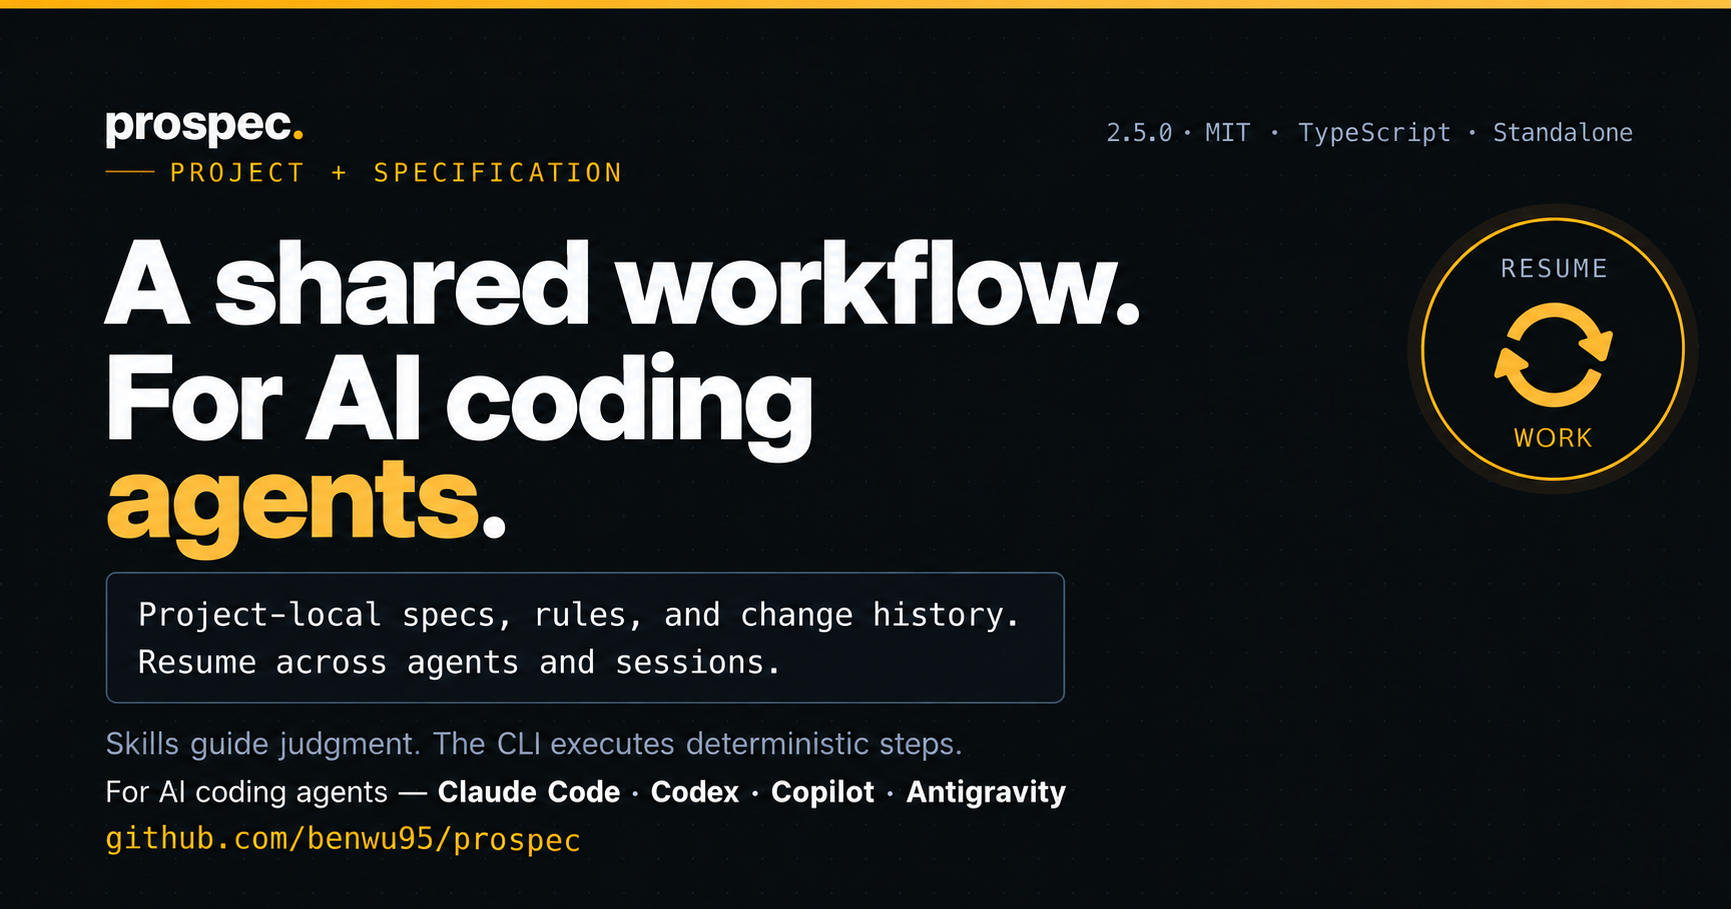
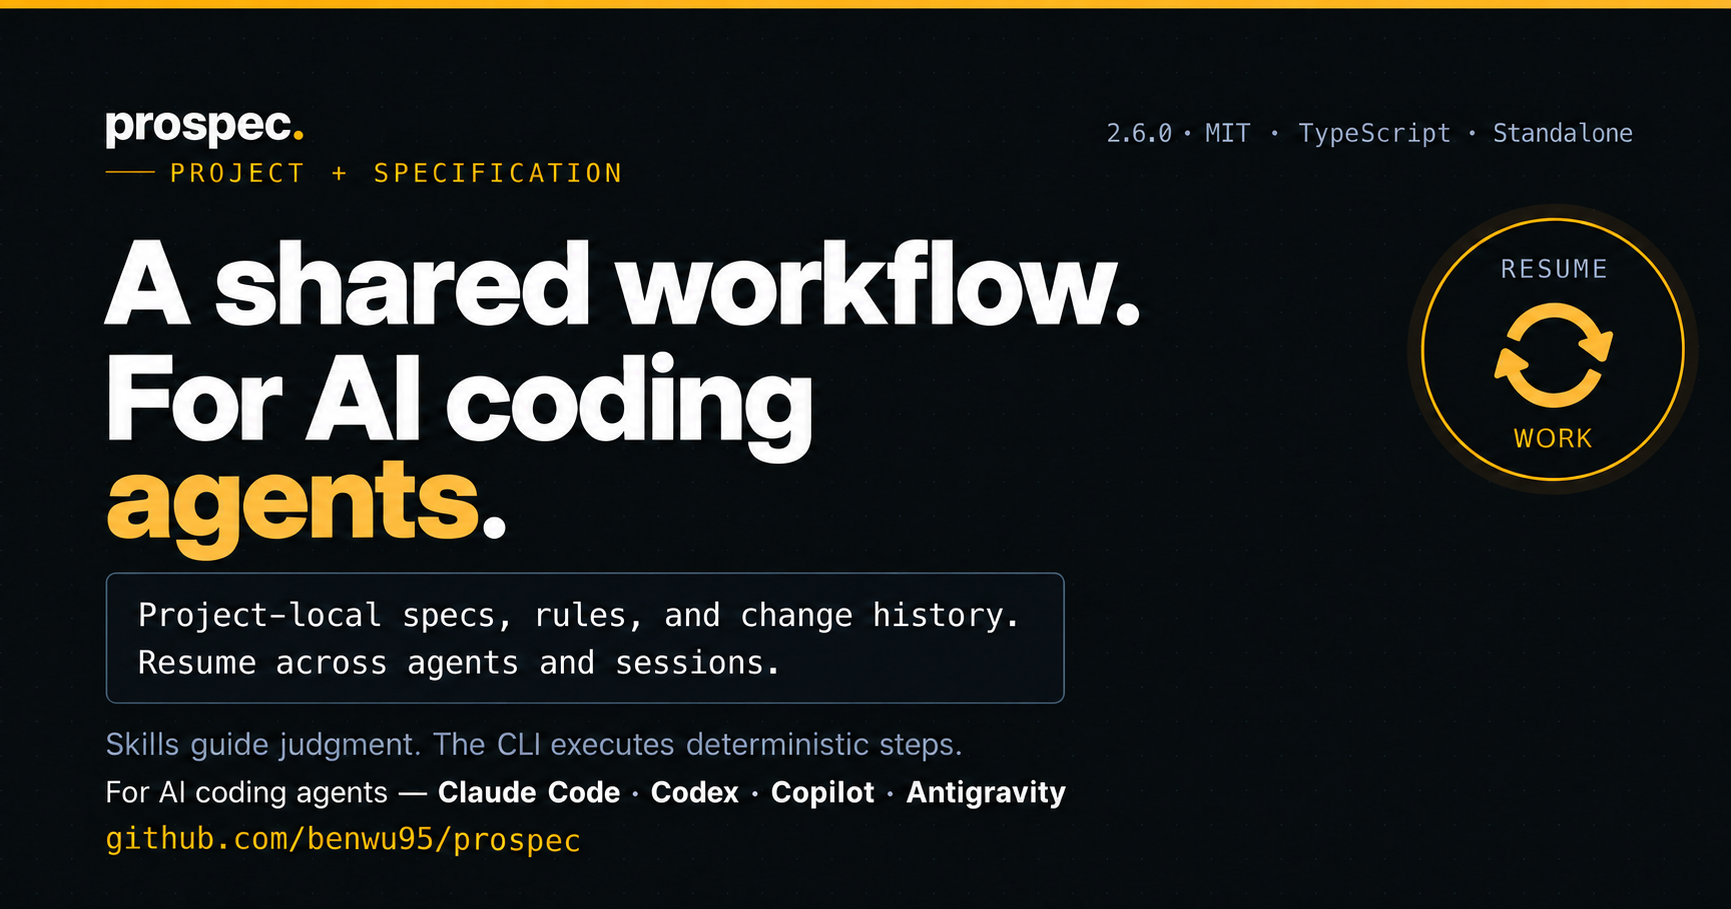
chore: bump version to 2.6.0
- update package, project and website release versions and social preview
- document V2 delegation ticket upgrade compatibility in both languages
- refresh release contract assertions and confirm tests knowledge

diff --git a/docs/index.html b/docs/index.html
@@ -14,12 +14,12 @@
 <meta property="og:image" content="https://benwu95.github.io/prospec/og.png">
 <meta property="og:image:width" content="1731">
 <meta property="og:image:height" content="909">
-<meta property="og:image:alt" content="Prospec 2.5.0 — a shared, resumable workflow for AI coding agents. Project-local specs, rules, and change history. Skills guide judgment; the CLI executes deterministic steps.">
+<meta property="og:image:alt" content="Prospec 2.6.0 — a shared, resumable workflow for AI coding agents. Project-local specs, rules, and change history. Skills guide judgment; the CLI executes deterministic steps.">
 <meta name="twitter:card" content="summary_large_image">
 <meta name="twitter:title" content="Prospec — a shared workflow for AI coding agents">
 <meta name="twitter:description" content="Project-local specs, rules, and change history keep work resumable across agents and sessions. Skills guide judgment; the CLI executes deterministic steps.">
 <meta name="twitter:image" content="https://benwu95.github.io/prospec/og.png">
-<meta name="twitter:image:alt" content="Prospec 2.5.0 — a shared, resumable workflow for AI coding agents. Project-local specs, rules, and change history. Skills guide judgment; the CLI executes deterministic steps.">
+<meta name="twitter:image:alt" content="Prospec 2.6.0 — a shared, resumable workflow for AI coding agents. Project-local specs, rules, and change history. Skills guide judgment; the CLI executes deterministic steps.">
 <script>
   (function(){
     var h = document.documentElement;
@@ -46,8 +46,8 @@
   "applicationCategory":"DeveloperApplication",
   "operatingSystem":"macOS, Linux, Windows",
   "softwareRequirements":"Standalone binaries require no Node.js. Node.js >= 22.13 is required only for npx, devDependency, or source-development paths.",
-  "softwareVersion":"2.5.0",
-  "dateModified":"2026-10-11",
+  "softwareVersion":"2.6.0",
+  "dateModified":"2026-10-13",
   "license":"https://opensource.org/licenses/MIT",
   "url":"https://benwu95.github.io/prospec/",
   "codeRepository":"https://github.com/benwu95/prospec",
@@ -104,7 +104,7 @@
 <!-- ===================== NAV ===================== -->
 <header class="nav">
   <div class="wrap nav__in">
-    <a class="brand" href="#top" aria-label="Prospec home" data-i18n-aria-label="nav.aria.brandHome">prospec<span class="dot" aria-hidden="true">.</span><span class="ver">2.5.0</span></a>
+    <a class="brand" href="#top" aria-label="Prospec home" data-i18n-aria-label="nav.aria.brandHome">prospec<span class="dot" aria-hidden="true">.</span><span class="ver">2.6.0</span></a>
     <nav class="nav__links" aria-label="Primary" data-i18n-aria-label="nav.aria.primary">
       <a href="#v2" data-i18n="nav.v2">Workflow</a>
       <a href="#how" data-i18n="nav.how">How it works</a>

diff --git a/tests/contract/skill-format.test.ts b/tests/contract/skill-format.test.ts
@@ -2713,8 +2713,8 @@ describe('Skill Format Contract', () => {
       const workflow = htmlSectionById(website, 'v2');
       expect(workflow).toContain('prospec status');
       expect(workflow).toContain('docs/guides/upgrading.md');
-      expect(website).toContain('<span class="ver">2.5.0</span>');
-      expect(website).toContain('"softwareVersion":"2.5.0"');
+      expect(website).toContain('<span class="ver">2.6.0</span>');
+      expect(website).toContain('"softwareVersion":"2.6.0"');
       for (const page of [website, zhOverlay]) {
         expect(page).not.toContain('1.3 → 2.0');
         expect(page).not.toContain("What's new in 2.0");
@@ -2727,7 +2727,7 @@ describe('Skill Format Contract', () => {
       const twitterAlt = website.match(/<meta name="twitter:image:alt" content="([^"]+)">/)?.[1];
       expect(ogAlt).toBeDefined();
       expect(twitterAlt).toBe(ogAlt);
-      expect(ogAlt).toContain('2.5.0');
+      expect(ogAlt).toContain('2.6.0');
       expect(ogAlt).toContain('shared');
       expect(ogAlt).not.toContain('audits itself');
     });

diff --git a/docs/guides/upgrading.md b/docs/guides/upgrading.md
@@ -39,6 +39,14 @@ prospec-upgrade                 # Step 2: AI agent migrates drifted doc formats,
 > - **Legacy File Cleanup**: If upgrading from an older pre-1.0 Prospec layout, remove the now-unused legacy files and directories after re-syncing: `GEMINI.md`, `.gemini/skills/`, `.codex/skills/`, `.github/copilot-instructions.md`, and `.github/instructions/`.
 > - **Configuration Version & Triggers**: `.prospec.yaml` `version` tracks the prospec version the project last upgraded to. If you ever need to localize triggers after adding a skill, simply run `prospec agent sync` — it explicitly reports missing `skill_triggers` entries so you fill only the gaps.
 
+## Upgrade to 2.6.0
+
+Update the binary, then run `prospec upgrade` to sync the delegation guidance. No configuration migration is required.
+
+New delegation tickets use V2 and allow bounded sibling-worktree branch and stash activity. Existing V1 tickets remain readable and retain exact comparison. Older CLI versions are not guaranteed to read V2 tickets; coordinate CLI versions before sharing new delegation state. Protected or unreadable differences still require inspection, and recovery remains an explicit human decision. See [Delegation commands](../reference/cli-reference.md) for the policy and its endpoint-detection limits.
+
+Run `prospec status` and `prospec check --strict` after upgrading.
+
 ## Upgrade to 2.5.0
 
 Update the binary before running `prospec upgrade` so the synced Skills can use the new `history` commands. No configuration migration is required.

diff --git a/prospec/ai-knowledge/modules/tests/README.md b/prospec/ai-knowledge/modules/tests/README.md
@@ -46,7 +46,7 @@ Lens changes require independent eight-lens expectations, alias/custom and thres
 
 ## Ripple Effects
 
-- Template/skill/service/CLI changes ripple to contract + E2E expectations; public README, `docs/` page or website claims ripple to the section-scoped document contracts; a new station command needs a formatter unit test AND an E2E case.
+- Template/skill/service/CLI changes ripple to contract + E2E expectations; public README, `docs/` page or website claims ripple to the section-scoped document contracts; a new station command needs a formatter unit test AND an E2E case. Release bumps also update the website version and social-preview assertions in `skill-format.test.ts`.
 
 ## Pitfalls
 
